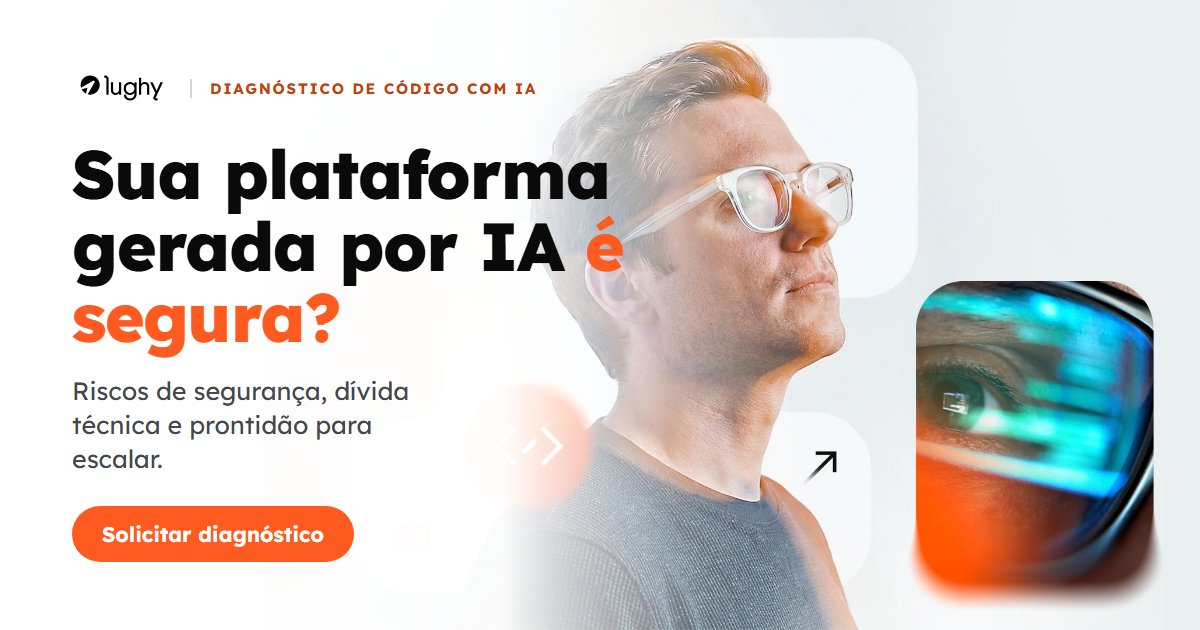
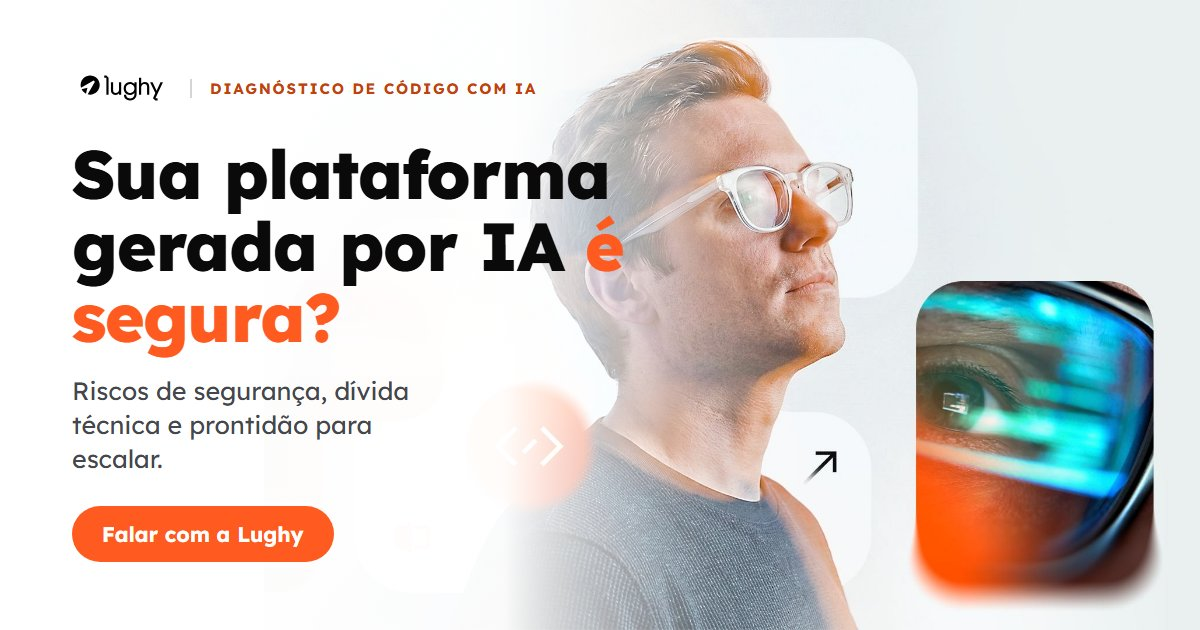
CTA passa a ser "Falar com a Lughy"
Os quatro botões (header, hero, oferta e formulário) diziam "Solicitar
diagnóstico", o que dava a entender que preencher o formulário já era o
pedido do diagnóstico. Na prática o time comercial fala com a pessoa
antes, para avaliar se o diagnóstico faz sentido.

A og-image foi regerada porque o texto do botão está desenhado na arte.

Copy nova, fora do Copy_LP_Diagnostico_IA_Lughy.md. Pendente de aprovação.

Changed region(s): [[0.0925, 0.7841, 0.3083, 0.9048]]

diff --git a/index.html b/index.html
@@ -60,7 +60,7 @@
         <span class="site-header__tagline">Software house</span>
       </a>
       <!-- LP focada em conversão: sem menu de navegação -->
-      <a class="btn btn--primary btn--sm site-header__cta js-scroll" href="#formulario">Solicitar diagnóstico</a>
+      <a class="btn btn--primary btn--sm site-header__cta js-scroll" href="#formulario">Falar com a Lughy</a>
     </div>
   </header>
 
@@ -80,7 +80,7 @@
         <p class="eyebrow"><span class="eyebrow__dot" aria-hidden="true"></span> Diagnóstico de código gerado por IA · Lughy</p>
         <h1 id="hero-title">Sua plataforma gerada por IA <span class="hl">é segura?</span></h1>
         <h2 class="hero__subtitle">Solicite um diagnóstico técnico e descubra os riscos de segurança, dívida técnica e pontos de travamento do seu código antes de escalar.</h2>
-        <a class="btn btn--primary hero__cta js-scroll" href="#formulario">Solicitar diagnóstico</a>
+        <a class="btn btn--primary hero__cta js-scroll" href="#formulario">Falar com a Lughy</a>
       </div>
 
     </section>
@@ -264,7 +264,7 @@
             <li><svg viewBox="0 0 24 24" fill="none" stroke="currentColor" stroke-width="2.5" stroke-linecap="round" stroke-linejoin="round" aria-hidden="true"><path d="M20 6 9 17l-5-5"/></svg> Mapeamento de dívida técnica e pontos de travamento</li>
             <li><svg viewBox="0 0 24 24" fill="none" stroke="currentColor" stroke-width="2.5" stroke-linecap="round" stroke-linejoin="round" aria-hidden="true"><path d="M20 6 9 17l-5-5"/></svg> Plano de ação priorizado para os riscos encontrados</li>
           </ul>
-          <a class="btn btn--primary js-scroll" href="#formulario">Solicitar diagnóstico</a>
+          <a class="btn btn--primary js-scroll" href="#formulario">Falar com a Lughy</a>
         </div>
       </div>
     </section>
@@ -753,7 +753,7 @@
               <p class="field__error" data-error-for="lgpd" hidden>É necessário autorizar o contato para continuar.</p>
             </div>
 
-            <button type="submit" class="btn btn--primary btn--block">Solicitar diagnóstico</button>
+            <button type="submit" class="btn btn--primary btn--block">Falar com a Lughy</button>
 
             <p class="form-card__safe">Suas informações estão seguras com a gente. 🔒</p>
 

diff --git a/og-image-source.html b/og-image-source.html
@@ -65,7 +65,7 @@
       <p class="sub">Riscos de segurança, dívida técnica e prontidão para escalar.</p>
     </div>
     <div class="bottom">
-      <span class="pill">Solicitar diagnóstico</span>
+      <span class="pill">Falar com a Lughy</span>
     </div>
   </div>
 </body>
